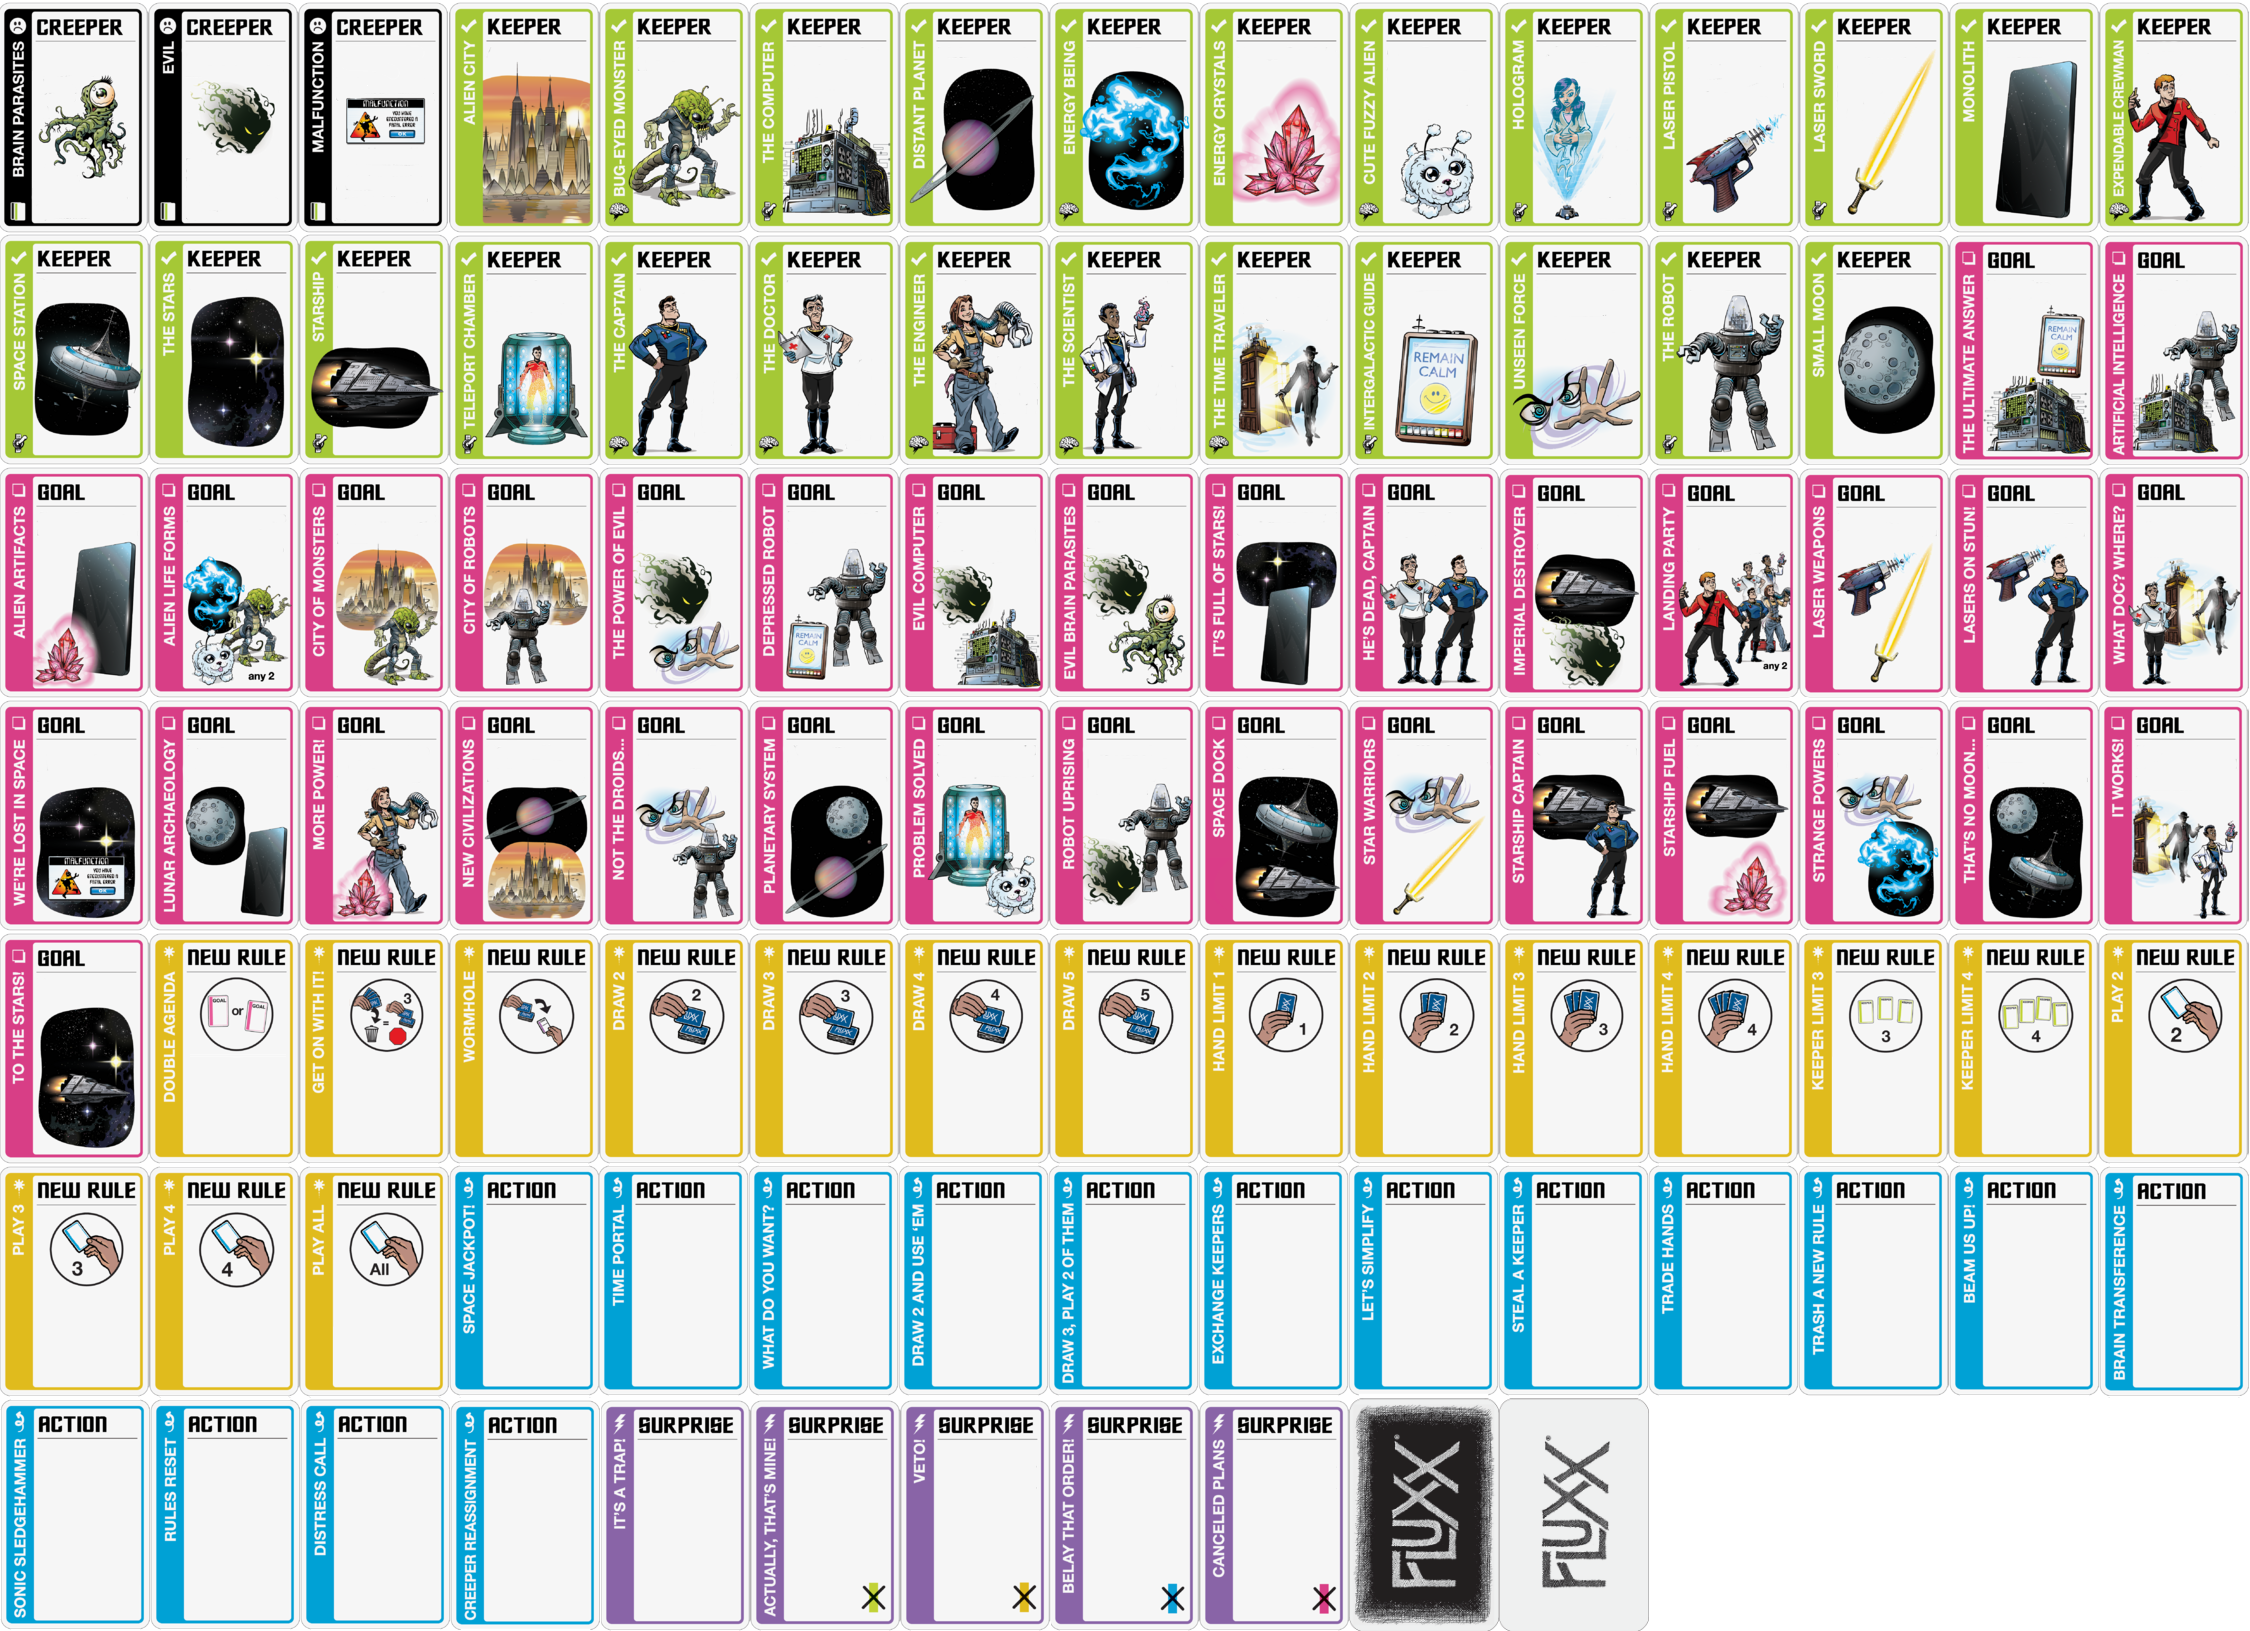
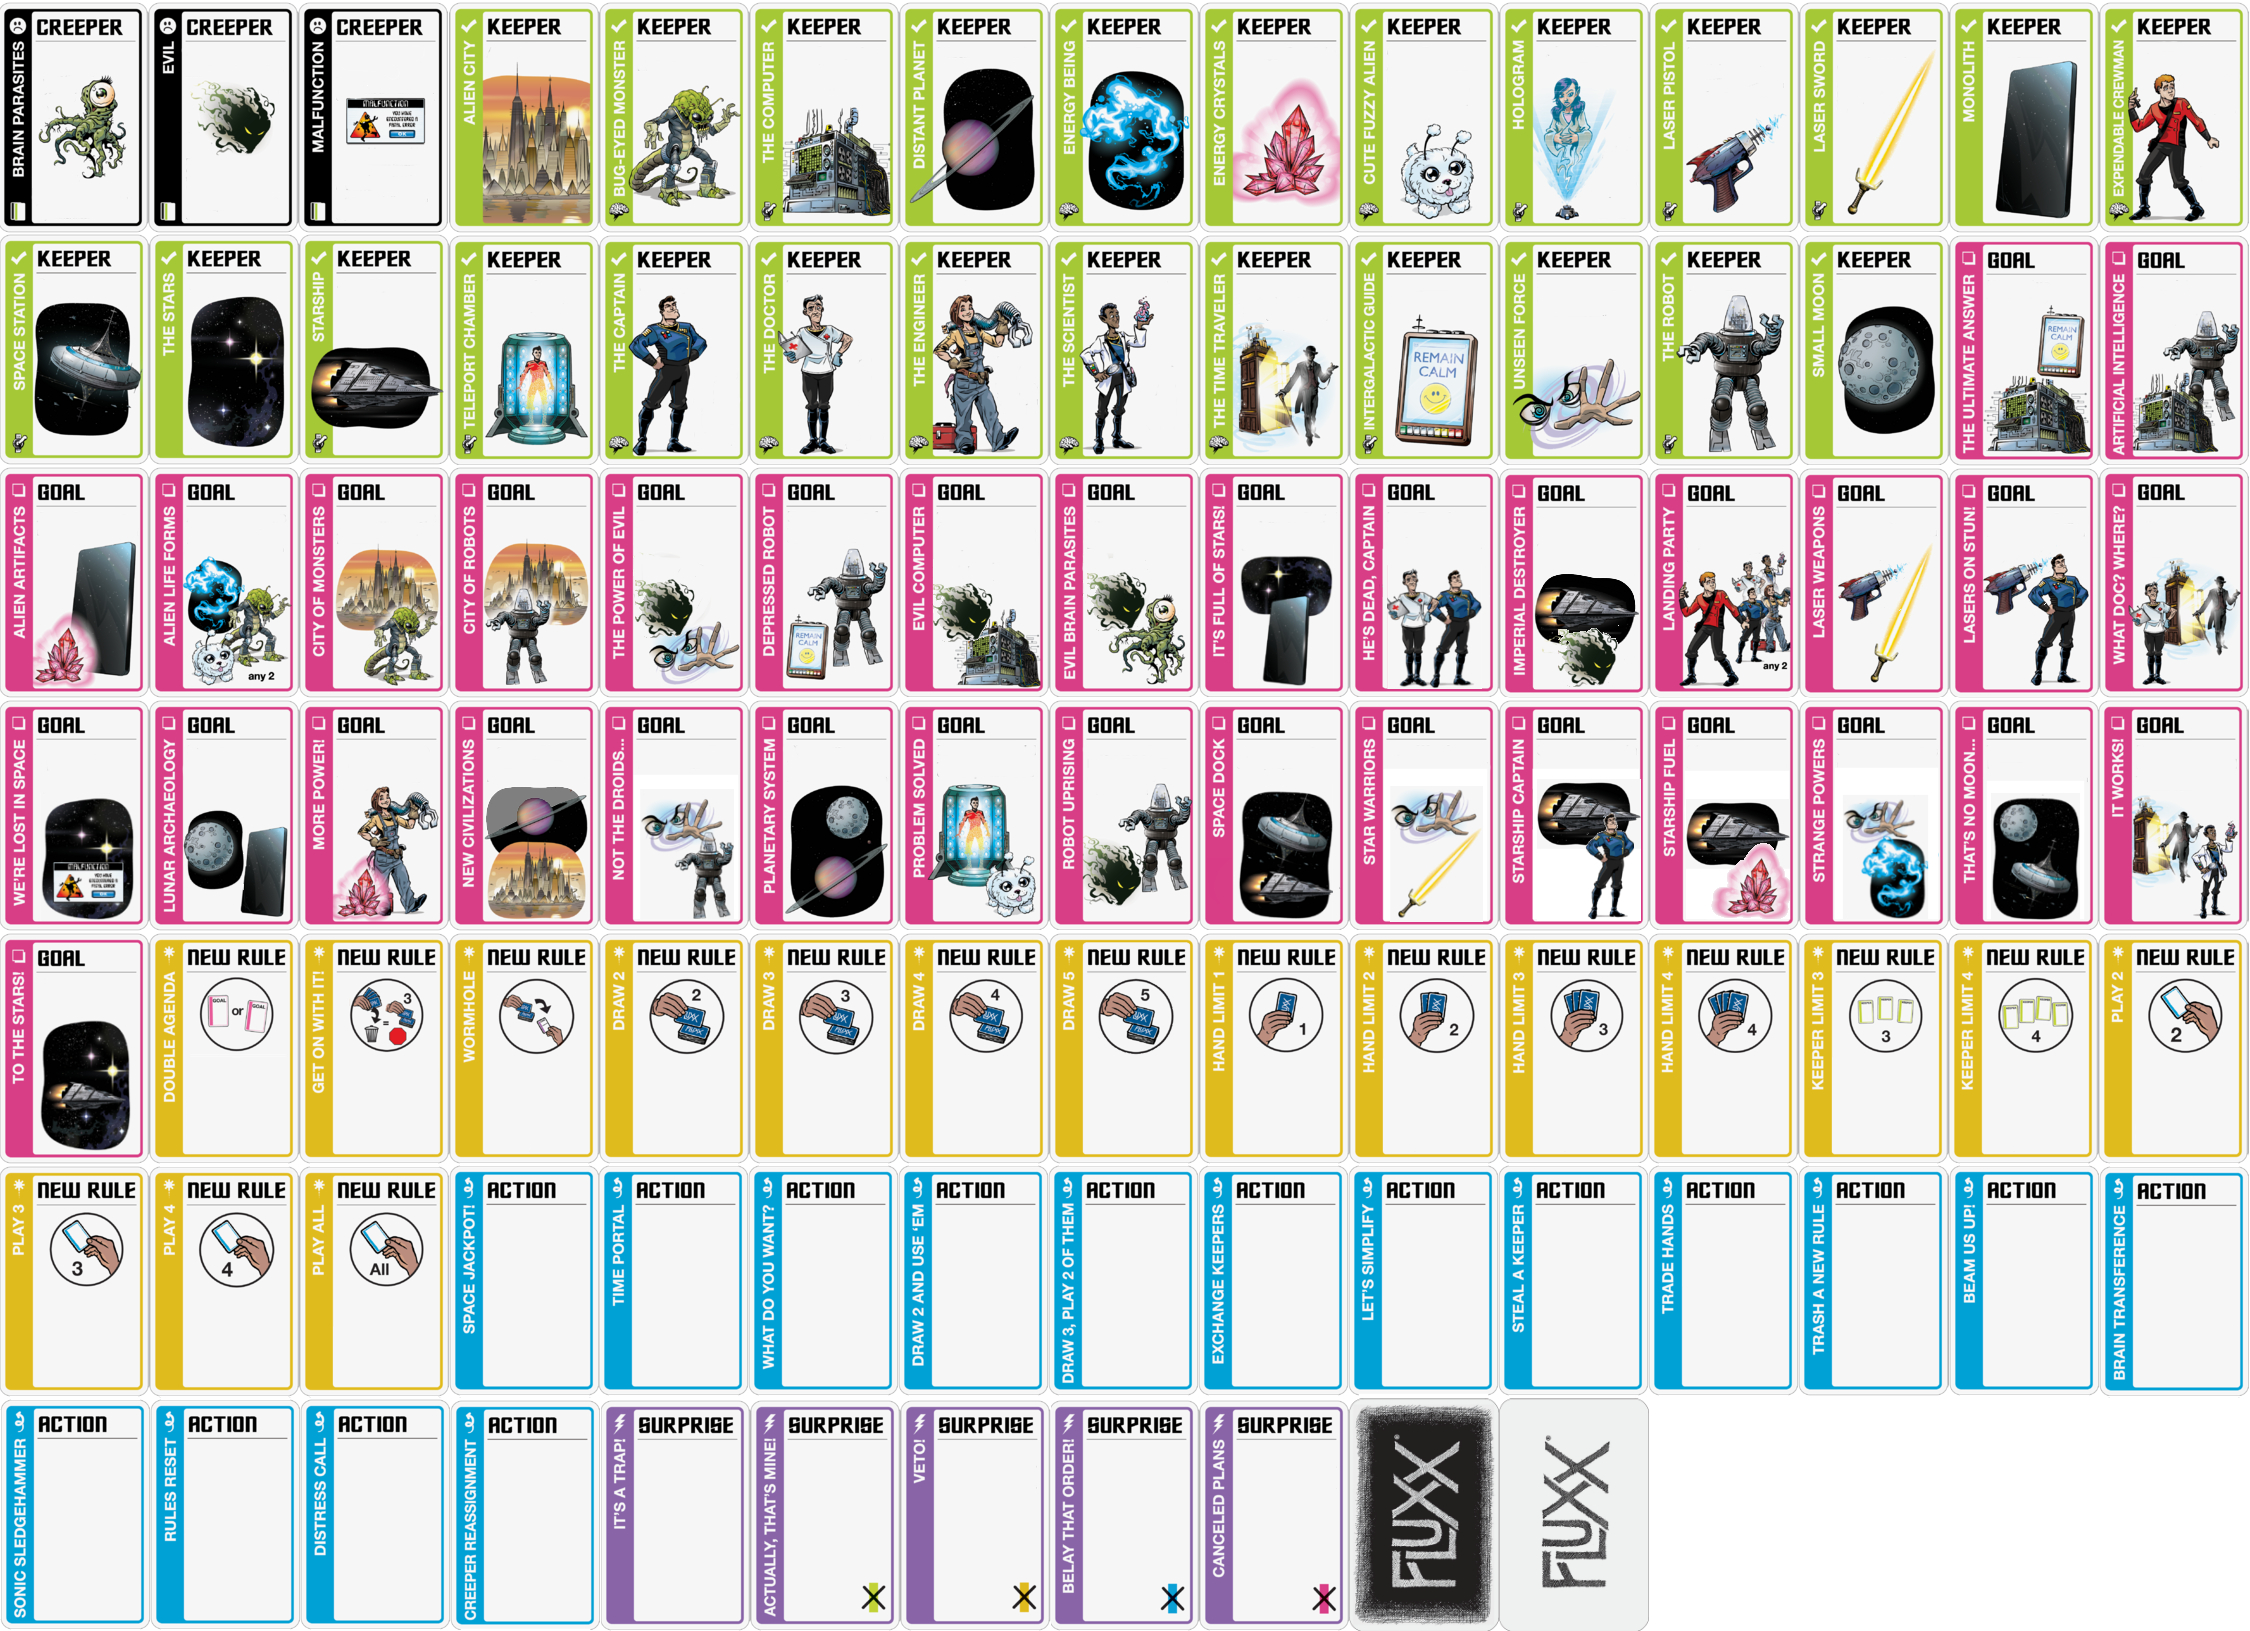
cards img/text visibility

diff --git a/starfluxx.css b/starfluxx.css
@@ -266,7 +266,7 @@ body {
 }
 
 .flx-card-creeper .card-description {
-  margin-top: 46px;
+  margin-top: 52px;
 }
 
 .flx-keepers .card-overlay-title {
@@ -293,9 +293,9 @@ body {
 
 .flx-keepers .card-overlay .card-name {
   margin-top: 2px;
-  width: 160%;
-  -webkit-transform: scale(0.625);
-          transform: scale(0.625);
+  width: 200%;
+  -webkit-transform: scale(0.5);
+          transform: scale(0.5);
   -webkit-transform-origin: top left;
           transform-origin: top left;
 }
@@ -434,6 +434,7 @@ body {
   font-size: 105%;
   font-weight: bold;
   font-style: italic;
+  color: white;
 }
 
 .flx_help_msg_wrapper .flx_help .help_txt {

diff --git a/modules/css/starfluxx.css b/modules/css/starfluxx.css
@@ -266,7 +266,7 @@ body {
 }
 
 .flx-card-creeper .card-description {
-  margin-top: 46px;
+  margin-top: 52px;
 }
 
 .flx-keepers .card-overlay-title {
@@ -293,9 +293,9 @@ body {
 
 .flx-keepers .card-overlay .card-name {
   margin-top: 2px;
-  width: 160%;
-  -webkit-transform: scale(0.625);
-          transform: scale(0.625);
+  width: 200%;
+  -webkit-transform: scale(0.5);
+          transform: scale(0.5);
   -webkit-transform-origin: top left;
           transform-origin: top left;
 }

diff --git a/modules/css/_cards.scss b/modules/css/_cards.scss
@@ -205,7 +205,7 @@ $color-flx-brown: #f6821f;
     margin-top: 5px;
   }
   .card-description {
-    margin-top: 46px;
+    margin-top: 52px;
   }
 }
 
@@ -231,9 +231,9 @@ $color-flx-brown: #f6821f;
 
     .card-name {
       margin-top: 2px;
-      // 10/16
-      width: 100% * 16/10;
-      transform: scale(0.625);
+      // 8/16
+      width: 100% * 16/8;
+      transform: scale(0.5);
       transform-origin: top left;
     }
     .card-subtitle {

diff --git a/starfluxx.js b/starfluxx.js
@@ -627,7 +627,7 @@ define([
           id: card_type_id,
         };
 
-        if (card.name.length > 20) {
+        if (card.name.length > 14) {
           card.nameLength = "long";
         }
         if (card.description.length > 158) {

diff --git a/modules/php/Cards/Creepers/CreeperBrainParasites.php b/modules/php/Cards/Creepers/CreeperBrainParasites.php
@@ -10,10 +10,10 @@ class CreeperBrainParasites extends CreeperCard
   {
     parent::__construct($cardId, $uniqueId);
 
-    $this->name = clienttranslate("Brain Parasites");
-    $this->subtitle = clienttranslate("Place Immediately + Redraw. You cannot win if you have this, unless the Goal says otherwise.");
+    $this->name = clienttranslate("Brain&nbsp;Parasites");
+    $this->subtitle = clienttranslate("Place Immediately + Redraw");
     $this->description = clienttranslate(
-      "If you have Keepers with brains in play, you must choose one to attach this to. Both cards stay together until discarded."
+      "If you have Keepers with brains in play, you must choose one to attach this to. Both cards stay together until discarded. You cannot win if you have this, unless the Goal says otherwise."
     );
 
     $this->help = clienttranslate(

diff --git a/modules/php/Cards/Creepers/CreeperMalfunction.php b/modules/php/Cards/Creepers/CreeperMalfunction.php
@@ -11,9 +11,9 @@ class CreeperMalfunction extends CreeperCard
     parent::__construct($cardId, $uniqueId);
 
     $this->name = clienttranslate("Malfunction");
-    $this->subtitle = clienttranslate("Place Immediately + Redraw. You cannot win if you have this, unless the Goal says otherwise.");
+    $this->subtitle = clienttranslate("Place Immediately + Redraw");
     $this->description = clienttranslate(
-      "If you have any equipment Keepers in play, you must choose one to attach this to. Both cards stay together until discarded."
+      "If you have any equipment Keepers in play, you must choose one to attach this to. Both cards stay together until discarded. You cannot win if you have this, unless the Goal says otherwise."
     );
 
     $this->help = clienttranslate(

diff --git a/modules/php/Cards/Creepers/CreeperEvil.php b/modules/php/Cards/Creepers/CreeperEvil.php
@@ -10,9 +10,9 @@ class CreeperEvil extends CreeperCard
     parent::__construct($cardId, $uniqueId);
 
     $this->name = clienttranslate("Evil");
-    $this->subtitle = clienttranslate("Place Immediately + Redraw. You cannot win if you have this, unless the Goal says otherwise.");
+    $this->subtitle = clienttranslate("Place Immediately + Redraw");
     $this->description = clienttranslate(
-      "If you have Keepers in play, you must choose one to attach this to. Both cards stay together until discarded."
+      "If you have Keepers in play, you must choose one to attach this to. Both cards stay together until discarded. You cannot win if you have this, unless the Goal says otherwise."
     );
 
     $this->help = clienttranslate(

diff --git a/modules/php/Cards/Keepers/KeeperTheDoctor.php b/modules/php/Cards/Keepers/KeeperTheDoctor.php
@@ -9,7 +9,7 @@ class KeeperTheDoctor extends KeeperCard
   {
     parent::__construct($cardId, $uniqueId);
 
-    $this->name = clienttranslate("The Doctor");
+    $this->name = clienttranslate("The&nbsp;Doctor");
 
     $this->description = clienttranslate("During your turn, if you have Brain Parasites, you can detach and discard them as long as they aren't attached to this card.");
   }

diff --git a/modules/php/Cards/Keepers/KeeperTheScientist.php b/modules/php/Cards/Keepers/KeeperTheScientist.php
@@ -9,7 +9,7 @@ class KeeperTheScientist extends KeeperCard
   {
     parent::__construct($cardId, $uniqueId);
 
-    $this->name = clienttranslate("The Scientist");
+    $this->name = clienttranslate("The&nbsp;Scientist");
 
     $this->description = clienttranslate("Once during your turn, you can steal one of: Energy Being, Energy Crystals, Unseen Force, or Monolith.");
   }

diff --git a/modules/php/Cards/Keepers/KeeperTheComputer.php b/modules/php/Cards/Keepers/KeeperTheComputer.php
@@ -9,7 +9,7 @@ class KeeperTheComputer extends KeeperCard
   {
     parent::__construct($cardId, $uniqueId);
 
-    $this->name = clienttranslate("The Computer");
+    $this->name = clienttranslate("The&nbsp;Computer");
 
     $this->description = clienttranslate("Draw and play one extra card during your turn. You may also exceed the Hand and Keeper Limits by one.");
   }

diff --git a/modules/php/Cards/Keepers/KeeperTheCaptain.php b/modules/php/Cards/Keepers/KeeperTheCaptain.php
@@ -9,7 +9,7 @@ class KeeperTheCaptain extends KeeperCard
   {
     parent::__construct($cardId, $uniqueId);
 
-    $this->name = clienttranslate("The Captain");
+    $this->name = clienttranslate("The&nbsp;Captain");
 
     $this->description = clienttranslate("Once during your turn, you can steal one of: Scientist, Engineer, Doctor, or Expendable Crewman.");
   }

diff --git a/modules/php/Cards/Keepers/KeeperTheEngineer.php b/modules/php/Cards/Keepers/KeeperTheEngineer.php
@@ -9,7 +9,7 @@ class KeeperTheEngineer extends KeeperCard
   {
     parent::__construct($cardId, $uniqueId);
 
-    $this->name = clienttranslate("The Engineer");
+    $this->name = clienttranslate("The&nbsp;Engineer");
 
     $this->description = clienttranslate("During your turn, if you have Malfunction, you can detach and discard it.");
   }
